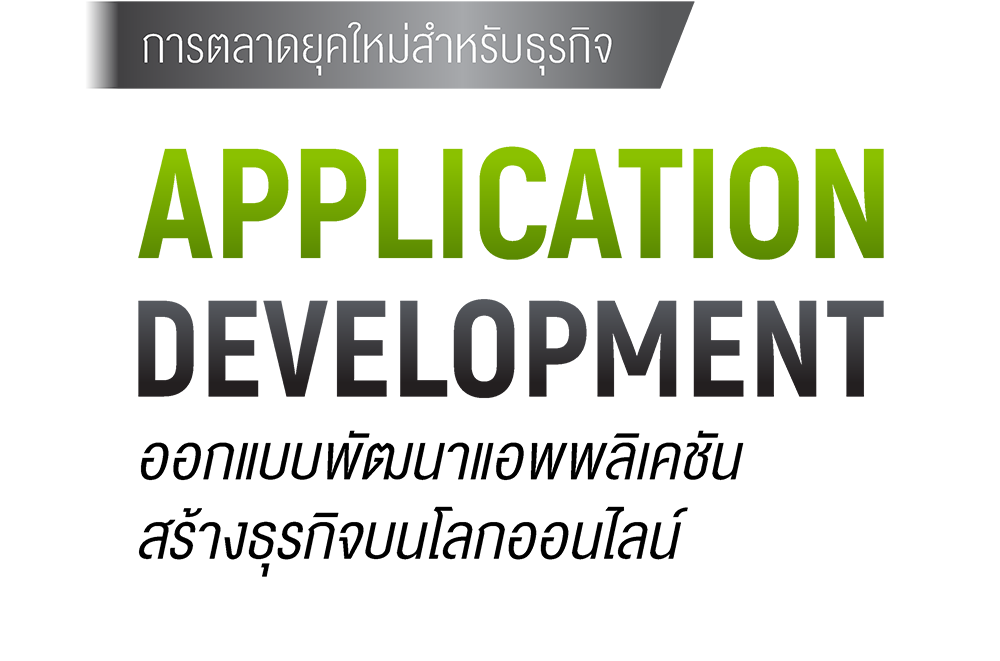
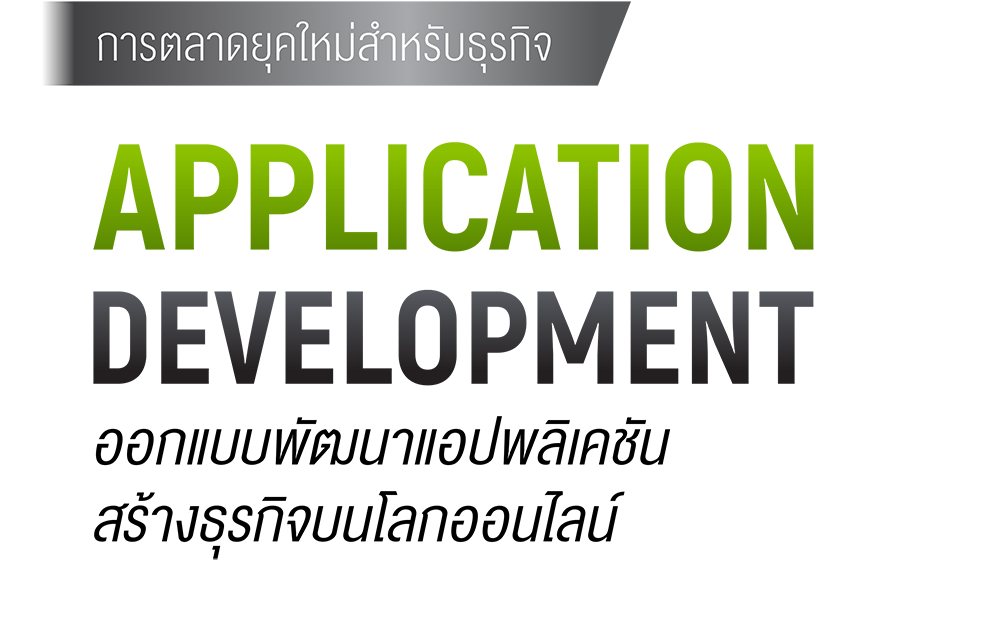
add img page app, edit design new

Changed region(s): [[0.093, 0.4502, 0.899, 0.8705], [0.093, 0.2101, 0.899, 0.4202], [0.031, 0.0, 0.713, 0.1501]]

diff --git a/css/digistyle.css b/css/digistyle.css
@@ -1967,12 +1967,12 @@ body>sec {
 }
 .im01-appdev {
     position: absolute;
-    max-width: 21%;
+    max-width: 25%;
     height: auto;
     object-fit: contain;
     bottom: 0;
     right: 0;
-    margin-bottom: 8%;
+    margin-bottom: 10%;
     margin-right: 29%;
 }
 .appintro-grid2 {
@@ -3459,14 +3459,14 @@ body>sec {
     }
     .im01-appdev {
         position: absolute;
-        max-width: 40%;
-        width: 40%;
+        max-width: 50%;
+        width: 50%;
         height: auto;
         object-fit: contain;
         bottom: 0;
         right: 0;
-        margin-bottom: 14%;
-        margin-right: 50%;
+        margin-bottom: 15%;
+        margin-right: 47%;
     }
     .ml-app-detail {
         margin-left: 35%;

diff --git a/index.html b/index.html
@@ -283,7 +283,7 @@
                             <img src="./images/appdev/desktop/banner/bn01.png" class="fragment-app fragment-app-banner3">
                             <img src="./images/appdev/desktop/banner/bn04.png" class="stl-bnw">
                         </div>
-                        <div class="banner d-mobile"><img src="./images/appdev/mobile/banner/banner1080x1080.jpg" class="stl-bnw"></div>
+                        <div class="banner d-mobile"><img src="./images/appdev/mobile/banner/banner1080x1080.png" class="stl-bnw"></div>
                     </a>
                 </li>
                 <li class="banner5">

diff --git a/appdev.html b/appdev.html
@@ -172,7 +172,7 @@
                             <img src="./images/appdev/desktop/banner/bn01.png" class="fragment-app fragment-app-banner3">
                             <img src="./images/appdev/desktop/banner/bn04.png" class="stl-bnw">
                         </div>
-                        <div class="banner d-mobile"><img src="./images/appdev/mobile/banner/banner1080x1080.jpg" class="stl-bnw"></div>
+                        <div class="banner d-mobile"><img src="./images/appdev/mobile/banner/banner1080x1080.png" class="stl-bnw"></div>
                     </a>
                 </li>
             </ul>
